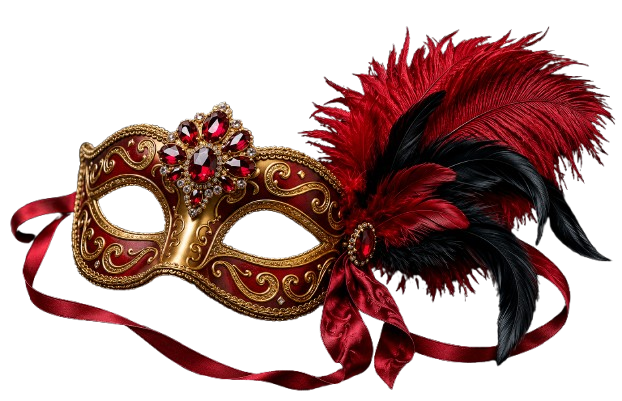
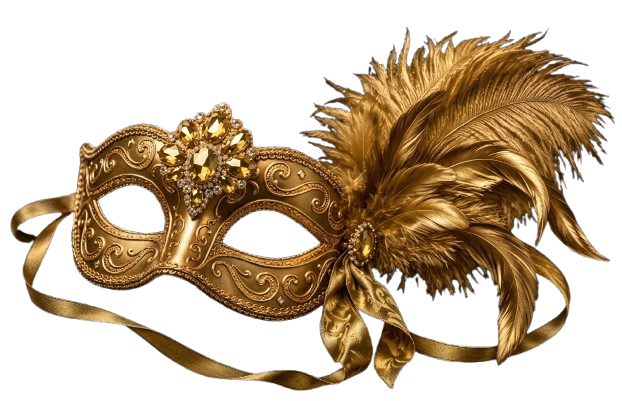
alteração no body principal do convite adicionando fundo responsivo, gradiend para letaras em dourado, ajuste de imagens e conversão para versão de turo dourado

diff --git a/index.html b/index.html
@@ -19,6 +19,33 @@
 
 
     <style>
+    /* Efeito Dourado Metálico Elegante */
+    .texto-dourado {
+        background: linear-gradient(135deg, #cda729 0%, #cebb62 45%, #ac8426 80%, #a4721c 100%);
+        -webkit-background-clip: text;
+        -webkit-text-fill-color: transparent;
+        background-clip: text;
+        filter: drop-shadow(0px 1px 2px rgba(0, 0, 0, 0.5));
+        display: inline-block;
+        padding: 0.1em 0.3em; /* Dá o espaço necessário para a caligrafia não ser cortada */
+    }
+/* Configuração do Fundo - Mobile (padrão) */
+    body {
+        background-color: #000000;
+        background-image: url('img/fundo.jpg');
+        background-size: cover;
+        background-position: center;
+        background-repeat: no-repeat;
+        background-attachment: fixed;
+    }
+
+    /* Configuração do Fundo - Desktop (telas acima de 768px) */
+    @media (min-width: 768px) {
+        body {
+            background-image: url('img/fundo-desktop.jpg'); /* Substitua pelo nome do seu arquivo de desktop */
+        }
+    }
+
     .fade-out {
         animation: fadeOut 1s forwards;
     }
@@ -182,11 +209,11 @@
     </style>
 </head>
 
-<body class="bg-black">
+<body>
 
     <!-- CAPA -->
     <section id="capa"
-        class="min-h-screen bg-black flex justify-center items-center px-4">
+        class="min-h-screen flex justify-center items-center px-4">
 
         <div class="max-w-[380px] mx-auto min-h-screen flex flex-col items-center text-center px-5 py-8 relative">
             
@@ -218,25 +245,19 @@
 
     <!-- CONVITE -->
     <section id="convite"
-        class="hidden min-h-screen bg-black text-white relative overflow-hidden">
+        class="hidden min-h-screen text-white relative overflow-hidden">
+        
         <!-- Poeira dourada apenas mobile -->
         <img
             id="poeiraDourada"
             src="img/poeira-dourada.png"
             alt=""
             class="block md:hidden absolute bottom-0 left-0 mt-8 w-full pointer-events-none z-0">
-        <div
-            id="borda"
-            class="hidden md:block absolute inset-0 bg-contain bg-center bg-no-repeat opacity-70 pointer-events-none"
-            style="background-image: url('img/arabesco-laterais.png');">
-        </div>
-        
-
         <!-- Máscara -->
         <img
-            src="img/mascara.png"
+            src="img/logo-julia.png"
             id="mascara"
-            class="absolute top-0 right-0 w-40 sm:w-52 md:w-50 lg:w-50 z-10"
+            class="absolute top-2 right-4 w-24 sm:w-40 md:w-40 lg:w-40 z-10"
             alt="Máscara">
 
             <!-- Logo Baile de Máscaras -->
@@ -257,7 +278,7 @@
 
             <h1
                 style="font-family:'Great Vibes',cursive;"
-                class="text-[#d4af37] text-8xl mt-16 sm:mt-10 md:mt-10">
+                class="texto-dourado text-8xl mt-16 sm:mt-10 md:mt-10">
 
                 Júlia
 
@@ -266,7 +287,7 @@
             <!-- 15 anos -->
             <h2
                 style="font-family:'Great Vibes',cursive;"
-                class="text-[#d4af37] text-6xl">
+                class="texto-dourado text-6xl">
 
                 15 anos
 
@@ -280,7 +301,7 @@
 
             <!-- Texto -->
             <p
-                class="text-[#d4af37] text-sm leading-6 mt-2 max-w-[280px]">
+                class="texto-dourado text-sm leading-6 mt-2 max-w-[280px]">
 
                 Meu dia tão esperado está chegando...
                 <br>
@@ -299,7 +320,7 @@
 
             <!-- Traje -->
             <p
-                class="mt-6 text-[#d4af37] text-sm">
+                class="mt-6 texto-dourado text-sm">
 
                 Traje sugerido - Social/Esporte fino - All Black
 
@@ -324,12 +345,20 @@
                 <a
                     href="https://wa.me/5519994715062?text=Ol%C3%A1!%20Gostaria%20de%20confirmar%20presen%C3%A7a%20no%20Baile%20de%20M%C3%A1scaras%20da%20J%C3%BAlia%20dia%2004%2F12%2F2026.%0A%0ANome(s):%20%0A%0AIdade(s):"
                     target="_blank"
-                    class="w-24 h-24 bg-[#9d1414] rounded-full flex items-center justify-center shadow-xl hover:scale-110 transition duration-300">
+                    rel="noopener noreferrer"
+                    class="relative w-24 h-24 flex items-center justify-center shadow-xl hover:scale-110 transition duration-300">
 
+                    <!-- Imagem de Fundo (Círculo) -->
+                    <img 
+                        src="img/circulo.png" 
+                        alt="Fundo" 
+                        class="absolute inset-0 w-full h-full object-contain pointer-events-none z-0">
+
+                    <!-- Ícone Por Cima (WhatsApp) -->
                     <img
                         src="img/whatsapp.png"
                         alt="WhatsApp"
-                        class="w-12 h-12 object-contain">
+                        class="w-10 h-12 object-contain relative z-10">
 
                 </a>
                 <!-- Localização -->
@@ -337,11 +366,18 @@
                     href="https://maps.app.goo.gl/bTWgwvDjULR4H4Aq6"
                     target="_blank"
                     rel="noopener noreferrer"
-                    class="w-24 h-24 bg-[#9d1414] rounded-full flex items-center justify-center shadow-xl hover:scale-110 transition duration-300">
+                    class="relative w-24 h-24 flex items-center justify-center shadow-xl hover:scale-110 transition duration-300">
 
+                    <!-- Imagem de fundo do círculo -->
+                    <img 
+                        src="img/circulo.png" 
+                        alt="Fundo" 
+                        class="absolute inset-0 w-full h-full object-contain pointer-events-none z-0">
+
+                    <!-- Ícone SVG por cima -->
                     <svg xmlns="http://www.w3.org/2000/svg"
-                        class="w-12 h-12"
-                        fill="white"
+                        class="w-12 h-12 relative z-10"
+                        fill="black"
                         viewBox="0 0 24 24">
 
                         <path
@@ -353,7 +389,8 @@
             </div>
             <button
                 id="btnMais"
-                class="mt-4 px-10 bg-[#9d1414] rounded-full text-white tracking-[3px] uppercase shadow-lg hover:scale-105 transition">
+                class="mt-4 px-10 py-3 bg-cover bg-center rounded-full text-black tracking-[3px] uppercase shadow-lg hover:scale-105 transition"
+                style="background-image: url('img/oval.png');">
 
                 Ver Mais
 
@@ -365,19 +402,13 @@
 
     <!-- SEGUNDA PÁGINA -->
     <section id="conviteExtra"
-            class="hidden min-h-screen bg-black text-white relative overflow-hidden">
+            class="hidden min-h-screen text-white relative overflow-hidden">
 
         <!-- Poeira -->
         <img
             src="img/poeira-dourada.png"
             alt=""
             class="block md:hidden absolute opacity-40 bottom-0 left-0 w-full pointer-events-none z-0">
-
-        <!-- Borda Desktop -->
-        <div
-            class="hidden md:block absolute inset-0 bg-contain bg-center bg-no-repeat opacity-70 pointer-events-none"
-            style="background-image: url('img/arabesco-laterais.png');">
-        </div>
 
         <div
             class="max-w-[380px] mx-auto min-h-screen flex flex-col items-center text-center px-6 py-12">
@@ -400,7 +431,7 @@
             <!-- Lista -->
             <div class="mt-2 text-left">
 
-                <ul class="text-[#d4af37] text-sm leading-8 space-y-3">
+                <ul class="texto-dourado text-sm leading-8 space-y-3">
 
                     <li>
                         • O Traje sugerido é Social/Esporte fino - All Black
@@ -433,22 +464,22 @@
                     class="flex justify-center gap-4">
 
                     <div class="text-center">
-                        <div id="dias" class="text-[#d4af37] text-3xl font-bold">00</div>
+                        <div id="dias" class="texto-dourado text-3xl font-bold">00</div>
                         <div class="text-xs text-white uppercase">Dias</div>
                     </div>
 
                     <div class="text-center">
-                        <div id="horas" class="text-[#d4af37] text-3xl font-bold">00</div>
+                        <div id="horas" class="texto-dourado text-3xl font-bold">00</div>
                         <div class="text-xs text-white uppercase">Horas</div>
                     </div>
 
                     <div class="text-center">
-                        <div id="minutos" class="text-[#d4af37] text-3xl font-bold">00</div>
+                        <div id="minutos" class="texto-dourado text-3xl font-bold">00</div>
                         <div class="text-xs text-white uppercase">Min</div>
                     </div>
 
                     <div class="text-center">
-                        <div id="segundos" class="text-[#d4af37] text-3xl font-bold">00</div>
+                        <div id="segundos" class="texto-dourado text-3xl font-bold">00</div>
                         <div class="text-xs text-white uppercase">Seg</div>
                     </div>
 

diff --git a/convite.js b/convite.js
@@ -10,7 +10,6 @@ const mascara = document.getElementById("mascara");
 const logo = document.getElementById("logoConvite");
 const conteudo = document.getElementById("conteudoConvite");
 const poeira = document.getElementById("poeiraDourada");
-const borda = document.getElementById("borda");
 
 btnEntrar.addEventListener("click", () => {
 
@@ -29,7 +28,6 @@ btnEntrar.addEventListener("click", () => {
             convite.classList.remove("hidden");
 
             poeira.classList.add("poeira-animar");
-            borda.classList.add("borda-animar");
             // máscara entra primeiro
             mascara.classList.add("mascara-animar");
 
